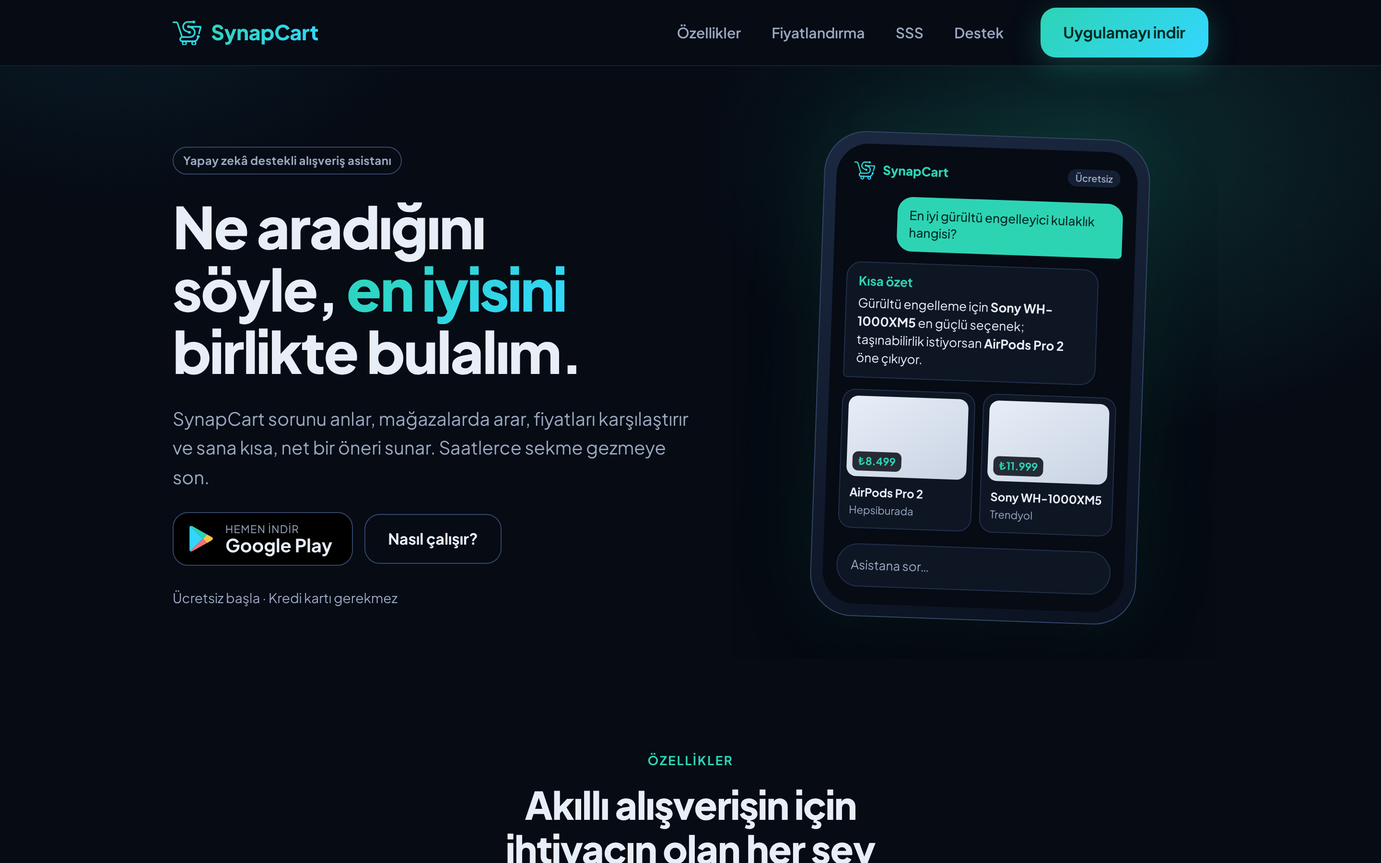
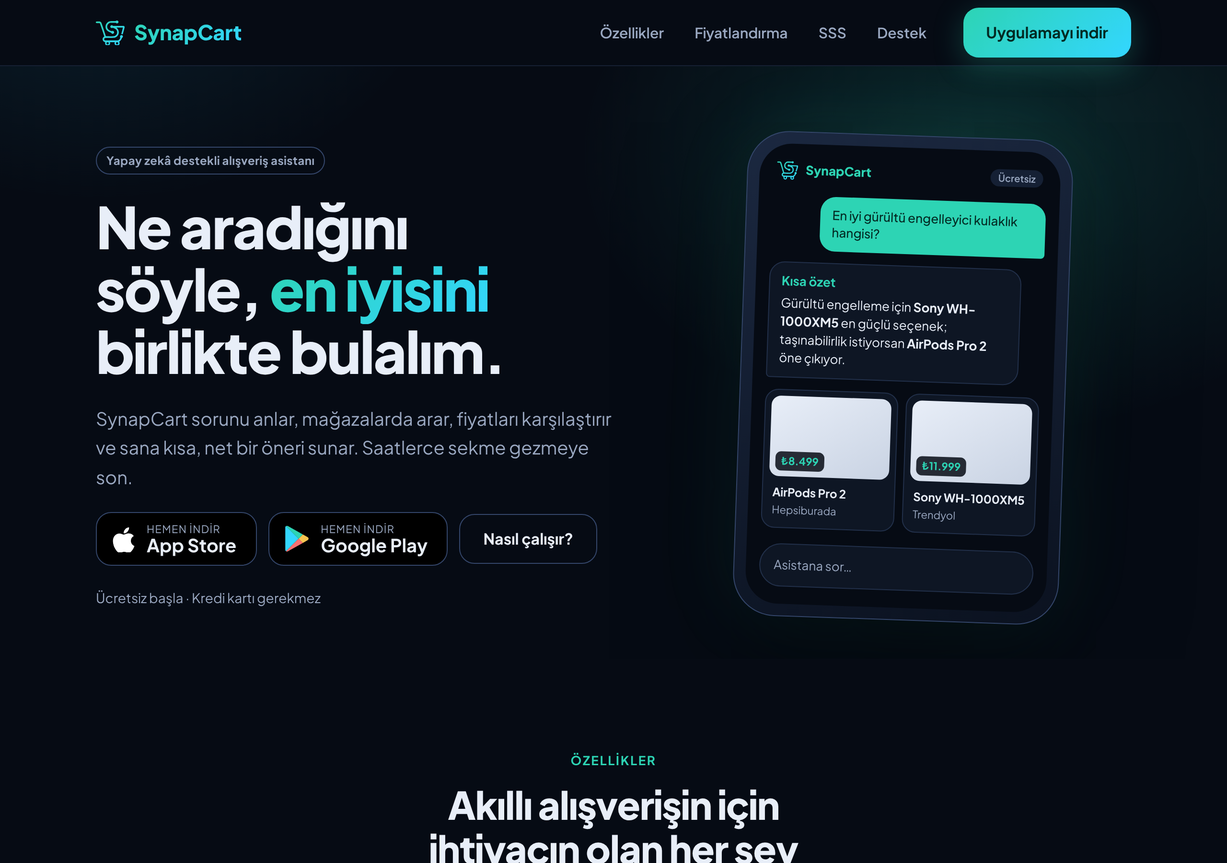
docs: Cloudflare + iOS/App Store architecture, Phases 8-9, sync submodules
- README and CLAUDE.md describe the new setup: Cloudflare Worker + D1
  backend, OpenNext web on Workers, Kotlin Multiplatform mobile with the
  SwiftUI iOS app (StoreKit 2) and the Compose Android app, the
  synapcart.emreaydin.dev / api. / staging. / staging-api. domains,
  App Store + Play billing and deploy commands.
- ROADMAP: Phase 8 (Cloudflare) and Phase 9 (iOS and App Store) status,
  plans and the owner checklist; refreshed cloud-session notes
  (cmdline-tools version, wrangler dev, Kotlin/Native on Linux).
- Landing screenshots updated with the App Store badge.
- Submodules point at the claude/awesome-maxwell-rc20me heads.

Claude-Session: https://claude.ai/code/session_01JVbMtyeBrZVFXkUSqtPNaV

diff --git a/README.md b/README.md
@@ -1,14 +1,14 @@
 # SynapCart
 
-**An AI shopping assistant for Android.** Tell SynapCart what you're looking for in plain language. It searches Google Shopping across stores, compares the offers and gives you a short, clear recommendation with product cards you can save, track and compare.
+**An AI shopping assistant for iPhone and Android.** Tell SynapCart what you're looking for in plain language. It searches Google Shopping across stores, compares the offers and gives you a short, clear recommendation with product cards you can save, track and compare.
 
-This is the umbrella repository. It holds the three apps as git submodules, plus the shared design assets and the docs:
+This is the umbrella repository. It holds the three projects as git submodules, plus the shared design assets and the docs:
 
 | Path | Repo | What it is |
 |---|---|---|
-| [`backend/`](https://github.com/emreaydindev/synapcart_backend) | `synapcart_backend` | FastAPI + LangGraph agent (Gemini, SerpAPI Google Shopping), plans and quota, Play billing, price alerts |
-| [`mobile/`](https://github.com/emreaydindev/synapcart_mobile) | `synapcart_mobile` | Android app: Kotlin, Jetpack Compose, Hilt, Retrofit/OkHttp, Play Billing, Firebase Messaging |
-| [`web/`](https://github.com/emreaydindev/synapcart_web) | `synapcart_web` | Next.js site: landing, privacy/terms/support, account deletion, password reset, `assetlinks.json` |
+| [`backend/`](https://github.com/emreaydindev/synapcart_backend) | `synapcart_backend` | Cloudflare Worker (TypeScript, Hono) on D1: shopping agent (Gemini, SerpAPI Google Shopping), plans and quota, App Store and Google Play billing, price alerts |
+| [`mobile/`](https://github.com/emreaydindev/synapcart_mobile) | `synapcart_mobile` | Kotlin Multiplatform: `shared/` (Ktor client, repositories, rules), the SwiftUI **iOS** app (StoreKit 2) and the Compose **Android** app (Play Billing) |
+| [`web/`](https://github.com/emreaydindev/synapcart_web) | `synapcart_web` | Next.js site on Cloudflare Workers (OpenNext): landing, privacy/terms/support, account deletion, password reset, Universal/App Links files |
 | `design/` | | Logo and screenshots |
 | `docs/` | | [Publishing roadmap](docs/ROADMAP.md) |
 
@@ -18,11 +18,20 @@ git clone --recurse-submodules https://github.com/emreaydindev/synapcart
 git submodule update --init --recursive
 ```
 
-The app is in Turkish by default and also ships in English, with a per-app language picker. The assistant replies in the user's language.
+**Domains**
+
+| | Production | Staging |
+|---|---|---|
+| Website | [synapcart.emreaydin.dev](https://synapcart.emreaydin.dev) | [staging.synapcart.emreaydin.dev](https://staging.synapcart.emreaydin.dev) |
+| API | [api.synapcart.emreaydin.dev](https://api.synapcart.emreaydin.dev/api/v1/health) | [staging-api.synapcart.emreaydin.dev](https://staging-api.synapcart.emreaydin.dev/api/v1/health) |
+
+All four are Workers Custom Domains declared in each repo's `wrangler.jsonc`. iOS ships first; Android follows.
+
+The apps are in Turkish by default and also ship in English. The assistant replies in the user's profile language.
 
 ## Plans
 
-SynapCart is free to use, with an optional **Premium** subscription sold through Google Play (monthly or yearly). The limits come from [`backend/app/services/plan_service.py`](https://github.com/emreaydindev/synapcart_backend/blob/claude/init-dno428/app/services/plan_service.py). The web landing page and the in-app paywall show the same numbers.
+SynapCart is free to use, with an optional **Premium** subscription. On iPhone it is sold through the **App Store**; on Android, through **Google Play**. Both offer monthly and yearly plans. The limits come from [`backend/src/services/plan.ts`](https://github.com/emreaydindev/synapcart_backend/blob/claude/awesome-maxwell-rc20me/src/services/plan.ts), and the web landing page and both paywalls show the same numbers.
 
 | | Free | Premium |
 |---|---|---|
@@ -33,104 +42,97 @@ SynapCart is free to use, with an optional **Premium** subscription sold through
 | Price-drop alerts | – | ✓ |
 | AI product comparison (2–4 products) | – | ✓ |
 
-Daily quotas reset at 00:00 UTC. Premium falls back to Free automatically once the subscription expires. Payments, renewals, cancellations and refunds are handled by Google Play.
+Daily quotas reset at 00:00 UTC. Premium falls back to Free automatically once the subscription expires. The store that sold the subscription handles payments, renewals, cancellations and refunds.
 
 ## Architecture
 
 ```
- ┌──────────────────────┐    HTTPS /api/v1    ┌────────────────────────────┐
- │  Android app         │ ──────────────────▶ │  FastAPI backend (Render)  │
- │  (mobile/)           │ ◀── SSE stream ──── │  LangGraph agent           │
- │  Play Billing ───────┼── purchase token ─▶ │  Gemini · SerpAPI          │
- │  FCM ◀───────────────┼──── price alerts ── │  PostgreSQL (Alembic)      │
- └──────────────────────┘                     │  daily price-check cron    │
-            ▲  synapcart://, https links      └────────────▲───────────────┘
-            │                                              │ /api rewrite
- ┌──────────┴───────────┐                                  │
- │  Next.js web (Vercel)│ ─────────────────────────────────┘
- │  (web/)              │   reset-password, delete-request/confirm
- └──────────────────────┘
-        ▲ Google Play ── RTDN (Pub/Sub push) ──▶ backend /billing/google/rtdn
+ ┌───────────────────────────┐   HTTPS /api/v1   ┌──────────────────────────────────┐
+ │  iOS app (SwiftUI)        │ ────────────────▶ │  Cloudflare Worker (Hono)        │
+ │  Android app (Compose)    │ ◀── SSE stream ── │  api. / staging-api.             │
+ │   └ shared KMP module     │                   │  agent: Gemini · SerpAPI         │
+ │  StoreKit 2 ─ signed JWS ─┼─────────────────▶ │  D1 (SQLite) · Cache API         │
+ │  Play Billing ─ token ────┼─────────────────▶ │  Email Service · Rate Limiting   │
+ │  FCM/APNs ◀───────────────┼── price alerts ── │  Cron Trigger: daily price check │
+ └───────────────────────────┘                   └──────────────▲───────────────────┘
+          ▲ Universal Links / App Links                         │ /api rewrite
+ ┌────────┴──────────────────┐                                  │
+ │  Next.js web (OpenNext)   │ ─────────────────────────────────┘
+ │  synapcart.emreaydin.dev  │  reset-password, delete-request/confirm
+ └───────────────────────────┘
+   App Store Server Notifications V2 ──▶ /billing/apple/notifications
+   Google Play RTDN (Pub/Sub push)   ──▶ /billing/google/rtdn
 ```
 
-- **Backend** (`backend/`). FastAPI serves everything under `/api/v1`: `/auth`, `/chat`, `/favorites`, `/user`, `/billing` and `/health`.
-  - **Auth:** HS256 JWTs that are valid for 7 days (`ACCESS_TOKEN_EXPIRE_MINUTES`). A password change or reset bumps `token_version`, which revokes every token already issued.
-  - **Rate limits:** slowapi limits auth requests per IP and agent requests per user.
-  - **Schema:** Alembic migrations are the source of truth.
-  - **Agent:** a LangGraph graph (router → searcher → analyst, or a refusal). `POST /chat/agent/{id}/stream` runs that same graph and streams Server-Sent Events: `routing` → `searching` → `thinking` (with products) → `completed` (with the analysis and products). It can end with `out_of_scope` or `error` instead. Only the final answer and its products are saved, so reopening a chat restores the product cards.
-- **Plans and quota.** `plan_service.get_limits(user)` decides the message quota, how many products a search returns, which analysis model runs and how much history is unlocked.
-  - The quota is counted per day in `usage_daily`.
-  - When a limit is hit, the backend returns HTTP 402 `{detail, code}` with `code` `quota_exceeded`, `premium_required` or `history_locked`. The app opens the paywall on any of these.
-- **Billing.** The app buys the `synapcart_premium` subscription with Play Billing and binds the purchase to the user id.
-  - It sends the purchase token to `POST /billing/google/verify`, which checks it with the Play Developer API (`purchases.subscriptionsv2`) and sets the plan and expiry. The app acknowledges the purchase only after the server has verified it.
-  - Renewals, cancellations and refunds arrive as Real-time Developer Notifications at `POST /billing/google/rtdn`.
-  - Purchases are restored when the app starts.
-- **Price alerts.** A Premium user sets a target price on a favorite (`PATCH /favorites/{id}`), and the app registers its FCM token (`POST /user/me/device-token`).
-  - A daily Render cron job (`python -m app.jobs.price_check`) re-searches those products. When a price is at or below the target, it sends a push through FCM HTTP v1.
-  - Tapping the notification opens the product in the app.
-- **Compare.** Premium users pick 2–4 products, and `POST /chat/compare` asks Gemini for a structured comparison: pros and cons for each product, the recommended item and a verdict, in the user's language.
-- **Web** (`web/`). The Next.js site on Vercel rewrites `/api/*` to the backend.
-  - It hosts the pages the Play listing needs: privacy, terms, support and the web account-deletion URL.
+- **Backend** (`backend/`): a Worker serving everything under `/api/v1`: `/auth`, `/chat`, `/favorites`, `/user`, `/billing` and `/health`. The HTTP contract is unchanged from the earlier FastAPI version.
+  - **Auth:** HS256 JWTs valid for 7 days. A password change or reset bumps `token_version`, which revokes every token already issued. Passwords use PBKDF2-SHA256.
+  - **Schema:** D1 migrations (`migrations/`) are the source of truth. Deleting a user cascades to all of their data.
+  - **Agent:** a state machine (router → searcher → analyst, or a refusal). `POST /chat/agent/{id}/stream` streams Server-Sent Events: `routing` → `searching` → `thinking` (with products) → `completed` (with the analysis and products). It can end with `out_of_scope` or `error` instead. Only the final answer and its products are saved.
+- **Plans and quota:** daily usage is counted in `usage_daily`. When a limit is hit, the API returns HTTP 402 `{detail, code}` with `code` set to `quota_exceeded`, `premium_required` or `history_locked`, and both apps open their paywall.
+- **Billing:**
+  - **iOS:** the app buys with StoreKit 2, using `appAccountToken` set to the user id. It sends the signed transaction to `POST /billing/apple/verify`, which checks the x5c chain up to Apple Root CA G3 plus the signature, bundle and product. The app finishes the transaction only after the server accepts it. App Store Server Notifications V2 keep renewals, expiries and refunds in sync.
+  - **Android:** Play Billing sends the purchase token to `POST /billing/google/verify` (Play Developer API), and RTDN keeps it in sync.
+  - `plan_source` records which store sold the plan. An inactive subscription from one store never cancels an active one from the other.
+- **Price alerts:** a Premium user sets a target price on a favorite. Both apps register FCM tokens; iOS goes through Firebase with an APNs key. A daily Cron Trigger re-searches those products and pushes through FCM HTTP v1 when a price reaches the target. Tapping the notification opens the product.
+- **Compare:** `POST /chat/compare` asks Gemini for pros and cons per product, the recommended item and a verdict, in the user's language.
+- **Web** (`web/`): the Next.js site runs on Workers via OpenNext and rewrites `/api/*` to the API.
+  - It hosts the pages both stores need: privacy, terms, support and the web account-deletion page.
   - The backend's emails link to `/reset-password?token=…` and `/delete-account?token=…`.
-  - After a password reset, the site opens the app through `synapcart://login`.
-  - `/.well-known/assetlinks.json` verifies the app's `https://synapcart.app` links.
+  - `/.well-known/apple-app-site-association` makes reset links open the iOS app, and `assetlinks.json` does the same for Android.
 
 ## Local development
 
-Run the backend first, because the app and the website both talk to it on port **8001**.
+Run the backend first, because the apps and the website talk to it on port **8001**.
 
 ### Backend
 
 ```bash
 cd backend
-python -m venv .venv && source .venv/bin/activate
-pip install -r requirements-dev.txt
-cp .env.example .env        # fill in GEMINI_API_KEY, SERP_API_KEY, SECRET_KEY, SMTP_*
-uvicorn app.main:app --host 0.0.0.0 --port 8001 --reload   # Swagger at http://localhost:8001/docs
-pytest                      # tests need no API keys (Gemini and SerpAPI are mocked)
-alembic check               # models and migrations agree
+npm install
+cp .dev.vars.example .dev.vars      # SECRET_KEY, GEMINI_API_KEY, SERP_API_KEY
+npm run db:migrate:local
+npm run dev -- --port 8001          # http://localhost:8001/api/v1/health
+npm test                            # Vitest in workerd with a local D1; external APIs mocked
 ```
-
-Migrations run on startup in dev (`AUTO_MIGRATE`). Billing and FCM stay disabled until their service-account keys are set. See `backend/.env.example`.
 
 ### Mobile
 
-Open `mobile/` in Android Studio, or use Gradle (JDK 17+, Android SDK with compileSdk 36.1):
-
 ```bash
 cd mobile
-./gradlew installDebug      # debug talks to http://10.0.2.2:8001/ (the emulator's host)
-./gradlew installDebug -PdebugBaseUrl=http://192.168.1.10:8001/   # a physical device on your LAN
-./gradlew test lint
-./gradlew assembleRelease   # R8 release; signed when keystore.properties exists
+./gradlew :shared:testAndroidHostTest :app:testDebugUnitTest
+./gradlew :app:installDebug                       # Android emulator -> http://10.0.2.2:8001/
+cd iosApp && xcodegen generate && open SynapCart.xcodeproj   # macOS: Debug scheme -> http://localhost:8001/
 ```
 
-- Push notifications need `app/google-services.json` from your Firebase project. Without it the app builds and runs, but without FCM.
-- Play Billing only works for builds installed from a Play test track.
+See `mobile/README.md` and [`mobile/docs/IOS_RELEASE.md`](https://github.com/emreaydindev/synapcart_mobile/blob/claude/awesome-maxwell-rc20me/docs/IOS_RELEASE.md), which is the App Store submission checklist.
 
 ### Web
 
 ```bash
 cd web
 npm install
-cp .env.example .env.local  # NEXT_PUBLIC_API_URL=http://localhost:8001
-npm run dev                 # http://localhost:3000
+cp .env.example .env.local          # NEXT_PUBLIC_API_URL=http://localhost:8001
+npm run dev                         # http://localhost:3000
 npm run lint && npm run build
+npm run preview                     # the production build in workerd
 ```
 
-## Live services
+### Deploy
 
-- **Website:** [synapcart-web.vercel.app](https://synapcart-web.vercel.app)
-- **API:** [synapcart-backend.onrender.com](https://synapcart-backend.onrender.com/api/v1/health)
+| Repo | Staging | Production |
+|---|---|---|
+| backend | `npm run db:migrate:staging && npm run deploy:staging` | `npm run db:migrate:prod && npm run deploy:prod` |
+| web | `npm run deploy:staging` | `npm run deploy` |
+| iOS | `bundle exec fastlane beta_staging` | `bundle exec fastlane beta`, then `release` |
 
-The backend runs on Render's free tier, so the first request after an idle period can take a while.
+GitHub Actions deploys `main` to staging and `v*` tags to production in the backend and web repos. This needs the repo secrets `CLOUDFLARE_API_TOKEN` and `CLOUDFLARE_ACCOUNT_ID`.
 
-### Legal and support pages
+## Legal and support pages
 
-- [Privacy Policy](https://synapcart-web.vercel.app/privacy) (KVKK and GDPR)
-- [Terms of Use](https://synapcart-web.vercel.app/terms) (including subscription terms)
-- [Support](https://synapcart-web.vercel.app/support)
-- [Delete your account](https://synapcart-web.vercel.app/delete-account)
+- [Privacy Policy](https://synapcart.emreaydin.dev/privacy) (KVKK and GDPR)
+- [Terms of Use](https://synapcart.emreaydin.dev/terms) (including App Store and Google Play subscription terms)
+- [Support](https://synapcart.emreaydin.dev/support)
+- [Delete your account](https://synapcart.emreaydin.dev/delete-account)
 
 ## Screenshots
 
@@ -144,8 +146,8 @@ The backend runs on Render's free tier, so the first request after an idle perio
 
 Desktop captures of every page are in [`design/screenshots/`](design/screenshots/).
 
-### Android app
+### Apps
 
-> **TODO (owner):** app screenshots aren't captured yet, because there is no emulator in the cloud build environment. Add them to `design/screenshots/` as `app-<screen>.png` (1080×2400 or similar) and replace this note with a table.
+> **TODO (owner):** app screenshots aren't captured yet, because the cloud build environment has no simulator or emulator. Capture the iOS ones at 6.9" and 6.5" (they're also needed for App Store Connect) and add them to `design/screenshots/` as `ios-<screen>.png` / `android-<screen>.png`.
 >
-> Screens to capture: onboarding, dashboard with a streamed answer and product cards, product details (with the price-alert dialog), favorites (with an alert bell), compare, paywall, and profile with the plan card.
+> Screens to capture: onboarding, chat with a streamed answer and product cards, product details (with the price-alert sheet), favorites, compare, paywall, and profile.

diff --git a/docs/ROADMAP.md b/docs/ROADMAP.md
@@ -1,8 +1,10 @@
-# SynapCart: road to publishing (Play Store + web)
+# SynapCart: road to publishing (App Store, Play Store and web)
 
-> The working roadmap for making SynapCart publishable. All work happens on branch
-> `claude/init-dno428` in each repo (`synapcart`, `synapcart_backend`, `synapcart_mobile`,
-> `synapcart_web`). Update the **Status** table whenever a phase lands.
+> The working roadmap for making SynapCart publishable. Phases 1–7 landed on branch
+> `claude/init-dno428`; Phases 8–9 (Cloudflare, iOS and the App Store) on
+> `claude/awesome-maxwell-rc20me`, stacked on top, in each repo (`synapcart`,
+> `synapcart_backend`, `synapcart_mobile`, `synapcart_web`). Update the **Status** table
+> whenever a phase lands.
 
 ## Status
 
@@ -15,8 +17,10 @@
 | 2. Premium backend | synapcart_backend | **Done**: `plan_service` (free 5 msgs/3 products/flash-lite/10 sessions; premium 100/8/`PREMIUM_ANALYST_MODEL`/unlimited), `usage_daily` quota with 402 `{detail, code}` (`quota_exceeded`, `premium_required`, `history_locked`), tiered agent, locked sessions, `POST /billing/google/verify` (subscriptionsv2) and the RTDN push endpoint, price alerts (`PATCH /favorites/{id}`, device tokens, daily `price_check` cron with FCM HTTP v1), `POST /chat/compare`. Migration 0004; 46 pytest tests pass, `alembic check` clean. Service-account tokens are minted with python-jose + httpx, so no new dependencies. | `b99be0d` |
 | 5. Mobile premium (Billing, paywall, FCM, compare) | synapcart_mobile (+ web) | **Done**: Play Billing 9 (`BillingRepository`: offers, purchase bound to the user id, server verify, acknowledge, restore on startup), real paywall with Play prices and renewal terms, 402 → paywall by code, locked chats in the drawer, price-alert dialog, FCM (`google-services` plugin applied only when `google-services.json` exists), `POST_NOTIFICATIONS` after the first favorite and on setting an alert, notification tap opens the product, `CompareScreen` calls `/chat/compare`. 18 JVM tests pass, lint has 0 errors, release builds; contract-tested against a local backend. Web pricing copy updated. Placeholders: the subscription and base-plan ids, `google-services.json`, and the Render billing/FCM secrets. | mobile `bc1acf2`, web `e2a7d26` |
 | 7. Umbrella: submodule bump, README, docs | synapcart (+ backend) | **Done**: submodules point at the latest `claude/init-dno428` commits; the README is rewritten (product, plans from `plan_service`, architecture, local dev, legal links, screenshots), and the debug-APK and old video links are gone; web screenshots (landing, privacy, reset-password, delete-account at 390px and 1440px) are in `design/screenshots/`; the umbrella CLAUDE.md covers `/billing`, plans and quota, price alerts and compare. Each repo's CLAUDE.md was checked against the code. Placeholder: the app screenshots (no emulator in the cloud; the README lists which screens to capture). | backend `4ac8a26` |
+| 8. Cloudflare migration | all | **Done**: the backend is rewritten as a TypeScript Worker (Hono) on D1 with the same HTTP contract. It adds PBKDF2 passwords, Cloudflare Email Service, Workers Rate Limiting, the Cache API for SerpAPI and a Cron Trigger for price alerts; 60 Vitest tests run in workerd and the deploy dry-runs pass. The web runs on Workers via OpenNext (Next 16.4.5), with `public/_headers`; the reset and delete flows were checked end to end with Playwright against both Workers under `wrangler dev`. Domains are `synapcart.emreaydin.dev`, `staging.`, `api.` and `staging-api.`, and both apps point at them. GitHub Actions: `main` deploys staging, `v*` deploys production. | backend `7f44112`, web `5481538` |
+| 9. iOS and the App Store | all | **Done in code; the SwiftUI app hasn't been built yet** (no macOS here). In mobile, `shared/` is a KMP module (Ktor, kotlinx.serialization, DataStore KMP, kotlinx-datetime) and Android uses it: 14 shared and 14 app JVM tests pass, lint and the release/staging builds pass, and the iOS klibs cross-compile on Linux. The SwiftUI app in `iosApp/` (XcodeGen) has StoreKit 2, FCM push, Universal Links, a privacy manifest, fastlane lanes and an iOS CI workflow. The backend adds `/billing/apple/verify` (JWS chain verified against Apple Root CA G3), App Store Server Notifications V2 and `plan_source`. The web adds the AASA file, the App Store badge, the Smart App Banner and Apple wording in the legal copy. Owner steps are in `mobile/docs/IOS_RELEASE.md`. | mobile `c2c3945` |
 
-The order is 4, then 6, then 2 and 5 together, then 7.
+The order was 4, then 6, then 2 and 5 together, then 7, then 8 and 9.
 
 **Phase 3 follow-ups to fold into Phase 4:**
 - The chat drawer needs rename and delete UI; `DashboardViewModel.renameSession` and `deleteSession` already exist.
@@ -26,7 +30,7 @@ The order is 4, then 6, then 2 and 5 together, then 7.
 
 ## Session setup notes (cloud containers)
 
-- **Android SDK** is not preinstalled.
+- **Android SDK** is not preinstalled. Use cmdline-tools **14742923** (v19) or older. Newer ones write SDK XML v4, which AGP 9.1 can't read ("Cannot invoke List.get… path is null").
   ```bash
   mkdir -p /opt/android-sdk/cmdline-tools && cd /tmp
   curl -sSL -o clt.zip https://dl.google.com/android/repository/commandlinetools-linux-13114758_latest.zip
@@ -52,12 +56,12 @@ The order is 4, then 6, then 2 and 5 together, then 7.
   EOT
   ```
   Then run `./gradlew --no-daemon :app:compileDebugKotlin :app:testDebugUnitTest :app:lintDebug :app:assembleRelease`.
-- **Backend** needs a venv and `pip install -r requirements-dev.txt`, then `pytest`. To run it locally with dummy keys:
-  `ENV=dev GEMINI_API_KEY=x SERP_API_KEY=x DATABASE_URL=sqlite:////tmp/sc.db SECRET_KEY=<32+ chars> SMTP_USER=x SMTP_PASSWORD=x uvicorn app.main:app --port 8001`.
-  The agent endpoints need real Gemini and SerpAPI keys; everything else works with dummy keys.
-- **Mobile ↔ backend contract check:** write a temporary JVM test that builds Retrofit against `http://localhost:8001/` with the real `*ApiService` interfaces and `safeApiCall`, run it while the backend is up, then delete it. This verified every Phase 3 endpoint.
+- **Backend:** `npm install` (`.npmrc` sets legacy-peer-deps), then `npm test` and `npm run typecheck`. To run locally, copy `.dev.vars.example` to `.dev.vars`, then run `npm run db:migrate:local && npm run dev -- --port 8001 --inspector-port 9230`. The agent endpoints need real Gemini and SerpAPI keys; everything else works with dummy keys. Local emails are written to `.wrangler/tmp/email/`.
+- **Running two `wrangler dev` servers at once** (backend and web preview) needs distinct `--inspector-port`s. The web Worker's `global_fetch_strictly_public` flag blocks its `/api` rewrite from reaching `localhost`, so drop it in a throwaway local config when testing end to end.
+- **Mobile ↔ backend contract check:** the shared module's `SynapCartApi` is the only client. Point a temporary `commonTest` at `http://localhost:8001/` with a real engine, or use the Ktor `MockEngine` tests in `shared/src/commonTest`.
+- **Kotlin/Native:** `:shared:compileKotlinIos*` works on Linux, but linking frameworks and running iOS tests needs macOS; CI uses `macos-15`. Shared-module libraries must be built with Kotlin ≤ 2.3, the project's Kotlin version (klib ABI).
 - **Web** needs `npm install`, then `npm run lint && npm run build`. Use the preinstalled Playwright and Chromium for screenshots.
-- **Conventions:** user-facing text is Turkish (EN added in Phase 4). Commit messages are in English. Push with `git push -u origin claude/init-dno428`. Don't open PRs unless asked.
+- **Conventions:** user-facing text is Turkish (EN added in Phase 4). Commit messages are in English. Push to the session's designated branch (Phases 8–9: `claude/awesome-maxwell-rc20me`). Don't open PRs unless asked.
 
 ## Context (original audit, before Phase 1)
 SynapCart is a working competition prototype. A full audit of all three repos found:
@@ -262,7 +266,44 @@ Work is phased so each phase can ship on its own. Commit and push per repo on `c
 
 ---
 
-## Owner setup for Phases 2 and 5 (placeholders in the code until done)
+## Phase 8: Cloudflare Workers (`synapcart_backend`, `synapcart_web`)
+- **Backend:**
+  - FastAPI + LangGraph + Postgres on Render became a Hono Worker on D1 (`wrangler.jsonc`: production at `api.synapcart.emreaydin.dev`, `env.staging` at `staging-api.`).
+  - Routes, error bodies, SSE events and plan rules are byte-compatible with the Python version, so the Android app worked unchanged.
+  - The agent is a plain state machine.
+  - Password hashing is PBKDF2 (WebCrypto, 100k iterations). There is no data migration; D1 starts empty, as the owner decided.
+  - Email goes through the `send_email` binding (verify the sending domain).
+  - Rate limits use the Workers Rate Limiting bindings.
+  - The price check runs as a Cron Trigger.
+- **Web:** OpenNext adapter with `wrangler.jsonc` (production at `synapcart.emreaydin.dev`, staging at `staging.`). Build-time env comes from the committed `.env.production` or the staging script, and static-asset headers from `public/_headers`.
+
+## Phase 9: iOS and the App Store (`synapcart_mobile` + backend + web)
+- **Mobile:**
+  - The data, domain and util layers moved to the KMP `shared/` module, replacing Retrofit/Gson, Android DataStore and java.time with Ktor, kotlinx.serialization, DataStore KMP and kotlinx-datetime.
+  - `SynapCartClient` is the Swift facade.
+  - The Android UI, Hilt, Play Billing and FCM stay native.
+  - `iosApp/` is a native SwiftUI app with the same screens as Android, StoreKit 2 and push.
+- **Backend:** Apple JWS verification (`appleBilling.ts`), notifications V2, and the optional App Store Server API status refresh in the cron.
+- **Web:** AASA for `/reset-password?token=`, the App Store badge (shown first), the Smart App Banner (once the real Apple ID is set), and Apple payment, EULA and refund wording in the legal pages.
+
+## Owner checklist for Phases 8 and 9
+- **Cloudflare:**
+  - Move `emreaydin.dev` to Cloudflare and subscribe to the Workers Paid plan.
+  - Run `wrangler d1 create synapcart-prod` and `synapcart-staging`, then paste the ids into `backend/wrangler.jsonc`.
+  - Verify `synapcart.emreaydin.dev` under Email Sending.
+  - `wrangler secret put` the secrets listed at the top of `backend/wrangler.jsonc`, for both environments.
+  - Add the GitHub secrets `CLOUDFLARE_API_TOKEN` and `CLOUDFLARE_ACCOUNT_ID` to the backend and web repos.
+- **Apple:**
+  - Join the Developer Program and set the Team ID in `mobile/iosApp/project.yml` and `web/public/.well-known/apple-app-site-association`.
+  - Create the App ID (Push, Associated Domains) and the App Store Connect app; put the Apple ID in `APPLE_APP_ID` and `web/lib/site.ts`.
+  - Create the subscription group `synapcart_premium` (`_monthly`, `_yearly`).
+  - Set the Server Notifications V2 URLs.
+  - Create an App Store Connect API key for fastlane.
+  - Full list: `mobile/docs/IOS_RELEASE.md`.
+- **Firebase:** add the iOS app, put `GoogleService-Info.plist` in the app (or the CI secret), and upload the APNs key.
+- **Play (later):** update the RTDN push URL to `https://api.synapcart.emreaydin.dev/api/v1/billing/google/rtdn?token=…`, and set the app-signing SHA-256 in `web/public/.well-known/assetlinks.json`.
+
+## Owner setup for Phases 2 and 5 (historical: Render references are superseded by Phase 8)
 - **Play Console:** create the subscription `synapcart_premium` with base plans `monthly` and `yearly` (or change `PREMIUM_PRODUCT_ID` / `PREMIUM_PLAN_*` in `mobile/app/build.gradle.kts` and `PLAY_SUBSCRIPTION_IDS` on the backend). Add license testers and upload a build to a test track; billing only works for apps installed from Play.
 - **Service account** for verification: link a Google Cloud project in Play Console, give the service account "View financial data" (and "Manage orders" if you want refunds from the API), then put the key JSON in Render as `GOOGLE_PLAY_SERVICE_ACCOUNT_JSON`.
 - **RTDN:** create a Pub/Sub topic, set it under Play Console › Monetization setup, and add a push subscription to `https://synapcart-backend.onrender.com/api/v1/billing/google/rtdn?token=<PLAY_RTDN_TOKEN>` (any long random string, also set on Render).

diff --git a/CLAUDE.md b/CLAUDE.md
@@ -6,31 +6,53 @@ This is the **umbrella repo** for SynapCart, an AI-assisted shopping assistant (
 
 | Path | Repo | Stack |
 |---|---|---|
-| `backend/` | `synapcart_backend` | FastAPI, SQLAlchemy + Alembic, LangGraph, Gemini, SerpAPI (Google Shopping) |
-| `mobile/` | `synapcart_mobile` | Kotlin, Jetpack Compose, Hilt, Retrofit/OkHttp, Play Billing, Firebase Messaging |
-| `web/` | `synapcart_web` | Next.js (App Router): landing, legal, support, account deletion, password reset |
+| `backend/` | `synapcart_backend` | Cloudflare Worker (TypeScript, Hono), D1, Gemini REST, SerpAPI, Email Service, Cron Triggers |
+| `mobile/` | `synapcart_mobile` | Kotlin Multiplatform `shared/` (Ktor, kotlinx.serialization, DataStore), SwiftUI iOS app (StoreKit 2, Firebase Messaging), Compose Android app (Hilt, Play Billing, FCM) |
+| `web/` | `synapcart_web` | Next.js (App Router) on Cloudflare Workers via OpenNext: landing, legal, support, account deletion, password reset |
 
 ```bash
 git submodule update --init --recursive   # fetch all modules
 ```
 
-Make code changes in the submodule's own repo. Commits here only bump submodule pointers (for example "chore: sync submodules") or change the README, `docs/` and `design/`. To bump pointers without checking the submodules out: `git update-index --cacheinfo 160000,<sha>,backend` (likewise `mobile`, `web`).
+Make code changes in the submodule's own repo. Commits here only bump submodule pointers (for example "chore: sync submodules") or change the README, `docs/` and `design/`. To bump pointers without checking the submodules out, run `git update-index --cacheinfo 160000,<sha>,backend` (likewise for `mobile` and `web`).
 
 ## Roadmap
 
-`docs/ROADMAP.md` is the publishing roadmap: the phase status table, the plan for each phase, the owner's decisions and the setup notes for cloud sessions (Android SDK, Maven mirror). Read it before starting any roadmap work, and update its Status table when a phase lands.
+`docs/ROADMAP.md` is the publishing roadmap. It holds the phase status table, the plan for each phase (Phase 8: Cloudflare, Phase 9: iOS and the App Store), the owner's checklist and the setup notes for cloud sessions. Read it before starting roadmap work, and update its Status table when a phase lands.
 
 ## How the pieces connect
 
-- The **backend** serves everything under `/api/v1` (`/auth`, `/chat`, `/favorites`, `/user`, `/billing`, `/health`) and runs locally on port **8001**. In production it runs on Render (`https://synapcart-backend.onrender.com`). The free tier causes slow cold starts.
-- The **mobile** app reads its backend from `BuildConfig.BASE_URL`, set per build type in `app/build.gradle.kts` (debug defaults to the emulator loopback on port 8001; override with `-PdebugBaseUrl=`). Agent chat uses the SSE endpoint `POST /api/v1/chat/agent/{id}/stream`, whose `{status, analysis, products}` events the app parses directly. That stream and the non-streaming `POST /chat/agent/{id}` run the same LangGraph graph (`agent_service.app_agent`; the stream goes through `stream_agent()`), and only the final answer is saved.
-- **Auth:** JWTs last `ACCESS_TOKEN_EXPIRE_MINUTES` (7 days by default) and embed `token_version`. A password reset or change bumps it and revokes all tokens. The app clears the session on any authenticated 401 and returns to Login.
-- **Plans and quota:** the backend's `app/services/plan_service.py` is the source of truth. Free has 5 agent messages per day (UTC), 3 products per search, `gemini-2.5-flash-lite` and the last 10 chats (older ones are `locked`). Premium has a 100/day soft cap, 8 products, `PREMIUM_ANALYST_MODEL`, unlimited history, price alerts and compare. Limit errors are HTTP 402 `{detail, code}` (`quota_exceeded`, `premium_required`, `history_locked`), and the app opens its paywall on them. The same numbers appear in `web/lib/site.ts` (`plans`) and the app's paywall strings, so change all three together.
-- **Billing (`/billing`):** the app buys the Play subscription (`PREMIUM_PRODUCT_ID`/`PREMIUM_PLAN_*` in `mobile/app/build.gradle.kts`, matching `PLAY_SUBSCRIPTION_IDS` on the backend) with the user id as `obfuscatedAccountId`, and sends the token to `POST /billing/google/verify` (Play `purchases.subscriptionsv2`). It acknowledges the purchase only after the backend has verified it. Play RTDN pushes renewals and cancellations to `POST /billing/google/rtdn?token=`.
-- **Price alerts:** `PATCH /favorites/{id}` sets `target_price` (Premium), and the app registers its FCM token with `POST /user/me/device-token`. The backend's daily Render cron job `app/jobs/price_check.py` sends FCM HTTP v1 pushes (channel `price_alerts`, data `{type, favorite_id, link, price}`), and the app opens that product when the notification is tapped. Without `google-services.json` (mobile) or `FIREBASE_SERVICE_ACCOUNT_JSON` (backend), push is a no-op.
-- **Compare:** `POST /chat/compare {products: [2–4]}` (Premium) returns `{items: [{title, link, pros, cons}], verdict, best_index}`, which `CompareScreen` renders.
-- **Password reset** crosses all three: the backend emails `{APP_FRONTEND_URL}/reset-password?token=…`, the **web** portal (Vercel, `https://synapcart-web.vercel.app`) renders the form and POSTs `{token, new_password}` to `/api/v1/auth/reset-password` through its Next.js rewrite, and the mobile app also registers deep links for `https://synapcart.app/reset-password` and `synapcart://reset-password`.
-- **Account deletion** (Play's web deletion URL): the web `/delete-account` page POSTs `/auth/delete-request`. The backend emails `{APP_FRONTEND_URL}/delete-account?token=…`, and the page then POSTs `/auth/delete-confirm`. In the app, Profile deletes the account with `DELETE /user/me`.
-- When you change an API response shape, update the backend schema, the mobile DTOs in `data/model` and, for auth, reset or deletion, the web pages together.
+- **Domains:**
 
-User-facing text is Turkish by default. The mobile app also ships English (`values-en`) with a per-app language picker; agent replies follow the user's `language`.
+  | | Production | Staging |
+  |---|---|---|
+  | Website | `https://synapcart.emreaydin.dev` | `https://staging.synapcart.emreaydin.dev` |
+  | API | `https://api.synapcart.emreaydin.dev` | `https://staging-api.synapcart.emreaydin.dev` |
+
+  These are Workers Custom Domains in each repo's `wrangler.jsonc`. Locally, the backend runs on port **8001**: `npm run dev -- --port 8001`.
+- **API:** everything is under `/api/v1` (`/auth`, `/chat`, `/favorites`, `/user`, `/billing`, `/health`).
+  - Agent chat uses the SSE endpoint `POST /api/v1/chat/agent/{id}/stream`, whose `{status, analysis, products}` events the shared KMP client parses (`SynapCartApi.streamAgent`). The stream and the non-streaming route run the same agent (`backend/src/services/agent.ts`), and only the final answer is saved.
+  - Keep the event field names stable.
+- **Auth:**
+  - JWTs (HS256, 7 days, `sub` = email) embed `token_version`. A reset or password change bumps it, which revokes every token.
+  - The shared client clears the session on any authenticated 401 and fires `SessionEvents.expired`, and both apps return to Login.
+- **Plans and quota:**
+  - `backend/src/services/plan.ts` is the source of truth. Free has 5 messages per day (UTC), 3 products, flash-lite and the 10 newest chats. Premium has 100 per day, 8 products, `PREMIUM_ANALYST_MODEL`, unlimited history, price alerts and compare.
+  - Limit errors are HTTP 402 `{detail, code}` with `quota_exceeded`, `premium_required` or `history_locked`, and both apps open their paywall on them.
+  - The numbers also appear in `web/lib/site.ts`, the Android strings and the iOS paywall table; change them together.
+- **Billing:** `plan_source` (`apple` or `google`) records the store, and one store's inactive subscription never downgrades the other's active one.
+  - **iOS:** StoreKit 2 products `synapcart_premium_monthly`/`_yearly`, with `appAccountToken` set to the user id. The app sends the signed transaction to `POST /billing/apple/verify`, and the backend verifies the x5c chain against the pinned Apple Root CA G3. The app finishes the transaction only after the server accepts it. App Store Server Notifications V2 go to `/billing/apple/notifications`.
+  - **Android:** Play `synapcart_premium` with `obfuscatedAccountId` set to the user id, verified at `POST /billing/google/verify`. RTDN goes to `/billing/google/rtdn?token=`.
+- **Price alerts:**
+  - `PATCH /favorites/{id}` sets `target_price` (Premium).
+  - Both apps register FCM tokens with `POST /user/me/device-token {token, platform}`.
+  - The backend's daily Cron Trigger (`src/jobs/priceCheck.ts`) sends FCM HTTP v1 pushes with an APNs payload. The data is `{type, favorite_id, link, price}`, and tapping the notification opens that product.
+  - Without the Firebase config files (`google-services.json` / `GoogleService-Info.plist`) or `FIREBASE_SERVICE_ACCOUNT_JSON`, push is a no-op.
+- **Password reset** crosses all three:
+  1. The backend emails `{APP_FRONTEND_URL}/reset-password?token=…` through Cloudflare Email Service.
+  2. The web page POSTs to `/api/v1/auth/reset-password` through its `/api` rewrite.
+  3. On iOS, the AASA file makes that link open the app's reset screen. Android App Links and the `synapcart://reset-password` scheme do the same on Android.
+- **Account deletion:** the web `/delete-account` page handles `/auth/delete-request` and `/auth/delete-confirm` (the stores' web deletion URL). Both apps delete in-app with `DELETE /user/me`, which App Store Guideline 5.1.1(v) requires.
+- **API changes:** when you change an API response shape, update the backend route, the shared DTOs in `mobile/shared/.../data/model/Models.kt` and, for auth, reset or deletion, the web pages together.
+
+User-facing text is Turkish by default, with English for both apps (the iOS strings are generated from the Android ones) and agent replies in the user's `language`.
